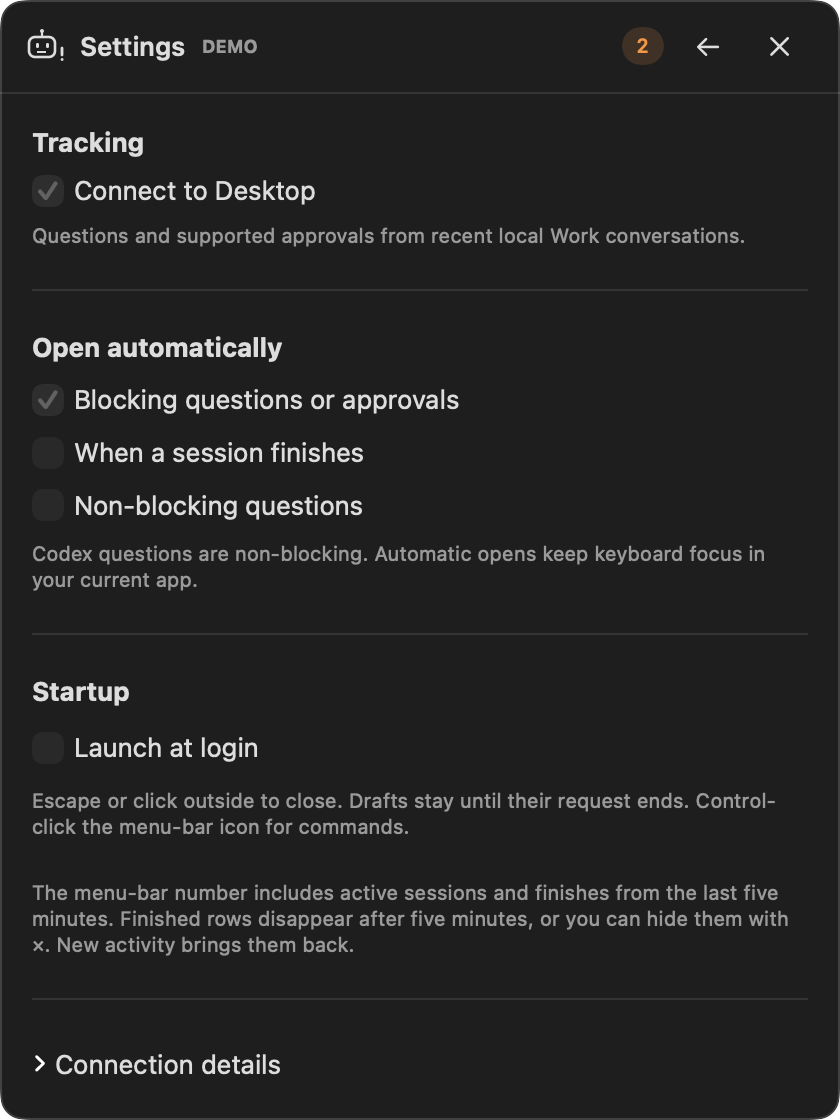
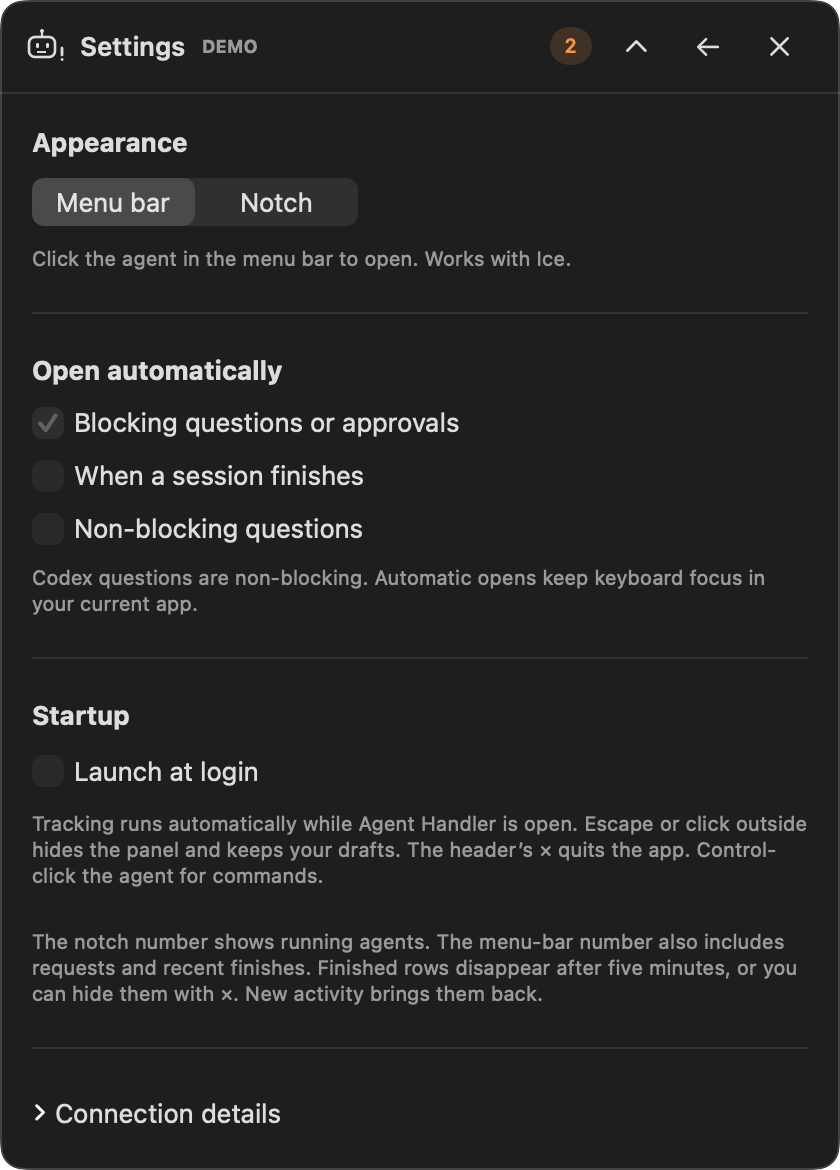
Make tracking automatic and harden notch hover recovery

diff --git a/Sources/AgentHandlerApp/AppModel.swift b/Sources/AgentHandlerApp/AppModel.swift
@@ -48,7 +48,7 @@ import ClaudeDesktopAdapter
     var hiddenSessions: [SessionSummary] { ordering.sorted(lifecycle.hidden(observedSessions, now: sessionClock)) }
     var sessions: [SessionSummary] { ordering.sorted(lifecycle.visible(observedSessions, now: sessionClock)) }
     var menuBarState: MenuBarState {
-        MenuBarState(sessions: sessions, now: sessionClock, enabled: enabled,
+        MenuBarState(sessions: sessions, now: sessionClock,
                      warning: issue != nil || trackingWarning != nil || needsSourceApproval)
     }
     func updateSessionPresentation(now: Date = Date()) {
@@ -63,7 +63,7 @@ import ClaudeDesktopAdapter
         persistLifecycle()
         attentionChanged?()
         if let target = autoOpenPolicy.update(requests: requests, sessions: observed, newlyFinished: newlyFinished,
-                                              settings: autoOpenSettings, enabled: enabled && !sleeping && !demo) {
+                                              settings: autoOpenSettings, enabled: !sleeping && !demo) {
             autoOpenRequested?(target)
         }
     }
@@ -104,7 +104,6 @@ import ClaudeDesktopAdapter
         }
     }
     var displayedRequest: RequestView? { requests.first { $0.id == selectedRequestID } ?? SessionSummary.preferredRequest(requests) }
-    @Published var enabled: Bool { didSet { UserDefaults.standard.set(enabled, forKey: "desktopEnabled"); Task { await reconfigure() } } }
     @Published var extraThreads: String { didSet { UserDefaults.standard.set(extraThreads, forKey: "extraThreads"); lastDiscovery = 0 } }
     @Published var loginEnabled = SMAppService.mainApp.status == .enabled
     @Published var autoOpenSettings = AutoOpenSettings() {
@@ -149,7 +148,6 @@ import ClaudeDesktopAdapter
         }
         core = RequestController(ledger: ledger)
         adapter = DesktopAdapter(directory: directory, controller: core)
-        enabled = UserDefaults.standard.object(forKey: "desktopEnabled") as? Bool ?? true
         extraThreads = UserDefaults.standard.string(forKey: "extraThreads") ?? ""
         if !demo { autoOpenSettings = AutoOpenSettings.load(from: .standard) }
     }
@@ -166,7 +164,7 @@ import ClaudeDesktopAdapter
         presentationTimer = Task { [weak self] in
             while !Task.isCancelled {
                 if let self {
-                    if !demo, enabled, !sleeping { activities = await adapter.activity() }
+                    if !demo, !sleeping { activities = await adapter.activity() }
                     updateSessionPresentation()
                 }
                 try? await Task.sleep(for: .seconds(1))
@@ -195,7 +193,7 @@ import ClaudeDesktopAdapter
         observingClaude = Task { [weak self] in
             while !Task.isCancelled {
                 guard let self else { return }
-                if enabled, !sleeping {
+                if !sleeping {
                     let app = NSRunningApplication.runningApplications(withBundleIdentifier: "com.anthropic.claudefordesktop").first
                     let source = app.map { "\($0.processIdentifier):\($0.launchDate?.timeIntervalSince1970 ?? 0)" }
                     await claude.poll(sourceInstance: source)
@@ -220,18 +218,8 @@ import ClaudeDesktopAdapter
         })
     }
 
-    private func reconfigure() async {
-        guard !demo else { return }
-        refreshingUsage?.cancel(); refreshingUsage = nil; codexUsage = nil
-        if enabled, !sleeping { startUsageRefresh() }
-        await adapter.stop(); await claude.stop()
-        activities = await adapter.activity(); claudeActivities = await claude.activity(); lastDiscovery = 0
-        connectedConversations = 0; connectionChecked = false
-        needsSourceApproval = false
-        await refreshDiscovery()
-    }
     private func startUsageRefresh() {
-        guard !demo, enabled, !sleeping, refreshingUsage == nil else { return }
+        guard !demo, !sleeping, refreshingUsage == nil else { return }
         refreshingUsage = Task { [weak self] in
             while !Task.isCancelled {
                 guard let self else { return }
@@ -240,7 +228,7 @@ import ClaudeDesktopAdapter
                 let reading: CodexUsageSnapshot?
                 if let executable { reading = try? await CodexUsageReader.read(executable: executable, directory: directory) }
                 else { reading = nil }
-                guard !Task.isCancelled, enabled, !sleeping else { return }
+                guard !Task.isCancelled, !sleeping else { return }
                 codexUsage = reading
                 try? await Task.sleep(for: .seconds(60))
             }
@@ -248,7 +236,6 @@ import ClaudeDesktopAdapter
     }
     private func refreshDiscovery() async {
         guard !demo, !sleeping, !refreshingDiscovery else { return }
-        guard enabled else { health = "Desktop connection disabled"; return }
         refreshingDiscovery = true; defer { refreshingDiscovery = false }
         let signature = ["state_5.sqlite", "state_5.sqlite-wal"].map { name in
             let attrs = try? FileManager.default.attributesOfItem(atPath: directory.appendingPathComponent(name).path)
@@ -258,7 +245,7 @@ import ClaudeDesktopAdapter
         if catalog.retryNeeded || signature != metadataSignature || now - lastDiscovery >= 60 || lastDiscovery == 0 {
             let directory = directory
             let result = await Task.detached(priority: .utility) { Result { try ThreadDiscovery.candidates(directory: directory) } }.value
-            guard enabled, !sleeping else { return }
+            guard !sleeping else { return }
             let previousDiagnostic = catalog.diagnostic
             catalog.update(result)
             if let diagnostic = catalog.diagnostic, diagnostic != previousDiagnostic {
@@ -276,7 +263,7 @@ import ClaudeDesktopAdapter
             // A parser/connection failure must not evict an active session.
             // Explicit no-owner results may release ordinary stale priority.
             let pending = (await core.snapshot()).filter(\.needsAttention).map { $0.id.scope.conversation }
-            guard enabled, !sleeping else { return }
+            guard !sleeping else { return }
             let explicit = extraThreads.split(whereSeparator: \.isWhitespace).map(String.init).filter { $0.utf8.count <= 256 }
             let candidateIDs = candidates.map(\.id)
             let baseline = Set(pending + explicit + candidateIDs).union(observedCodexConversations)

diff --git a/Sources/AgentHandlerApp/MenuBarPanel.swift b/Sources/AgentHandlerApp/MenuBarPanel.swift
@@ -36,6 +36,7 @@ final class AttentionPanel: NSPanel {
     private var opening: Opening?
     private var hoverPolicy = NotchHoverPolicy()
     private var hoverTask: Task<Void, Never>?
+    private var lastPointerInside: Bool?
     private var geometry: NotchGeometry?
     private let geometryProvider: (() -> NotchGeometry?)?
     private let pointerLocation: () -> CGPoint
@@ -53,6 +54,7 @@ final class AttentionPanel: NSPanel {
         panel.isOpaque = false; panel.backgroundColor = .clear; panel.hasShadow = true
         panel.level = .statusBar; panel.collectionBehavior = [.canJoinAllSpaces, .fullScreenAuxiliary, .stationary, .ignoresCycle]
         panel.hidesOnDeactivate = false; panel.isReleasedWhenClosed = false
+        panel.acceptsMouseMovedEvents = true
         panel.title = "Agent Handler"
         NotificationCenter.default.addObserver(self, selector: #selector(menuBegan), name: NSMenu.didBeginTrackingNotification, object: nil)
         NotificationCenter.default.addObserver(self, selector: #selector(menuEnded), name: NSMenu.didEndTrackingNotification, object: nil)
@@ -72,14 +74,18 @@ final class AttentionPanel: NSPanel {
         // otherwise make a scrollable error state expand the window itself.
         host.sizingOptions = []
         panel.contentView = host
-        if let monitor = NSEvent.addGlobalMonitorForEvents(matching: [.leftMouseDown, .rightMouseDown], handler: { [weak self] event in
+        // Recover an absent view-entry event using pointer geometry. Both
+        // event scopes are needed for movement in our window and other apps.
+        if let monitor = NSEvent.addGlobalMonitorForEvents(matching: [.leftMouseDown, .rightMouseDown, .mouseMoved], handler: { [weak self] event in
             MainActor.assumeIsolated {
+                if event.type == .mouseMoved { self?.pointerMoved(); return }
                 guard let self, event.windowNumber != self.panel.windowNumber else { return }
                 self.dismissIfOutside(event)
             }
         }) { eventMonitors.append(monitor) }
-        if let monitor = NSEvent.addLocalMonitorForEvents(matching: [.leftMouseDown, .rightMouseDown], handler: { [weak self] event in
+        if let monitor = NSEvent.addLocalMonitorForEvents(matching: [.leftMouseDown, .rightMouseDown, .mouseMoved], handler: { [weak self] event in
             MainActor.assumeIsolated {
+                if event.type == .mouseMoved { self?.pointerMoved(); return }
                 guard let self, event.window !== self.panel, event.window !== self.anchor?.window else { return }
                 self.dismissIfOutside(event)
             }
@@ -93,6 +99,8 @@ final class AttentionPanel: NSPanel {
     private func collapse(automatically: Bool = false) {
         awaitingNotchLayout = false
         hoverTask?.cancel(); hoverTask = nil; hoverPolicy = NotchHoverPolicy(); opening = nil
+        // The hit region changes from the expanded body to the compact strip.
+        lastPointerInside = nil
         // Only a pointer remaining over the compact trigger must leave before
         // reopening. A normal hover-exit must allow the very next re-entry.
         if geometry?.collapsedFrame.contains(pointerLocation()) == true { hoverPolicy.dismissed() }
@@ -245,6 +253,7 @@ final class AttentionPanel: NSPanel {
         }
         guard style != presentation.style else { return }
         hoverTask?.cancel(); hoverTask = nil; hoverPolicy = NotchHoverPolicy()
+        lastPointerInside = nil
         awaitingNotchLayout = false
         if style == .notch, presentation.expanded { prepareNotchLayout() }
         presentation.style = style
@@ -253,17 +262,28 @@ final class AttentionPanel: NSPanel {
         if style == .notch || presentation.expanded { panel.orderFrontRegardless() }
         else { panel.resignKey(); panel.orderOut(nil) }
     }
+    private var pointerIsInside: Bool {
+        // During the shrink the native frame is still larger than the trigger.
+        // That vanishing body must not start a fresh dwell and reopen itself.
+        let trigger = presentation.expanded ? panel.frame : geometry?.collapsedFrame ?? panel.frame
+        return trigger.contains(pointerLocation())
+    }
+    private func pointerMoved() {
+        guard presentation.style == .notch, panel.isVisible, pointerIsInside != lastPointerInside else { return }
+        // High-rate movement within the same region does not reschedule dwell
+        // tasks. The deadline rechecks the current position even after a stop.
+        pointerChanged()
+    }
     /// Shared native-event path; fixture tests provide only their own pointer
     /// position and geometry, without moving the user's cursor.
     func pointerChanged() {
         hoverTask?.cancel(); hoverTask = nil
         guard presentation.style == .notch, panel.isVisible else { return }
+        let inside = pointerIsInside
+        lastPointerInside = inside
         let mayCollapse = opening == .hover && !panel.isKeyWindow && !model.showSettings && !menuTracking
         let now = ProcessInfo.processInfo.systemUptime
-        // During the shrink the native frame is still larger than the trigger.
-        // That vanishing body must not start a fresh dwell and reopen itself.
-        let trigger = presentation.expanded ? panel.frame : geometry?.collapsedFrame ?? panel.frame
-        switch hoverPolicy.update(inside: trigger.contains(pointerLocation()), expanded: presentation.expanded,
+        switch hoverPolicy.update(inside: inside, expanded: presentation.expanded,
                                   mayCollapse: mayCollapse, now: now) {
         case .expand:
             opening = .hover; autoClose.openedManually(); present(takingFocus: false)

diff --git a/Sources/AgentHandlerApp/RequestView.swift b/Sources/AgentHandlerApp/RequestView.swift
@@ -33,7 +33,7 @@ struct HandlerPanelView: View {
                             PanelIconButton(title: "Dismiss message", symbol: "xmark") { model.issue = nil }
                         }.padding(12).background(.orange.opacity(0.10)).panelMeasuredHeight(.issue)
                 }
-                if let warning = model.trackingWarning, model.enabled {
+                if let warning = model.trackingWarning {
                     Label(warning, systemImage: "exclamationmark.triangle")
                         .font(.callout).foregroundStyle(.orange).fixedSize(horizontal: false, vertical: true).padding(12).frame(maxWidth: .infinity, alignment: .leading).panelMeasuredHeight(.warning)
                 }
@@ -141,12 +141,13 @@ struct HandlerPanelView: View {
                         .padding(.horizontal, 7).padding(.vertical, 3).background(.orange.opacity(0.16), in: Capsule())
                         .foregroundStyle(.orange).help("Requests needing attention; the menu-bar number also includes working and recently finished sessions.").accessibilityLabel("\(model.requests.count) \(model.requests.count == 1 ? "request needs" : "requests need") attention")
                 }
+                PanelIconButton(title: presentation.style == .notch ? "Collapse notch (Escape)" : "Close panel (Escape)",
+                    symbol: "chevron.up", action: collapse)
+                    .keyboardShortcut(.cancelAction)
                 PanelIconButton(title: model.showSettings ? (model.showSessions ? "Back to sessions" : "Back to question") : "Settings", symbol: model.showSettings ? "arrow.left" : "gearshape") {
                     model.showSettings.toggle()
                 }.keyboardShortcut(",", modifiers: .command)
-                PanelIconButton(title: presentation.style == .notch ? "Collapse notch (Escape)" : "Close panel (Escape)",
-                    symbol: presentation.style == .notch ? "chevron.up" : "xmark", action: collapse)
-                    .keyboardShortcut(.cancelAction)
+                PanelIconButton(title: "Quit Agent Handler", symbol: "xmark") { NSApp.terminate(nil) }
             }
         }.padding(.horizontal, expanded ? 16 : 12)
             .frame(height: presentation.style == .notch ? 40 : expanded ? 46 : 30)
@@ -191,10 +192,10 @@ struct HandlerPanelView: View {
 
     private var emptyState: some View {
         VStack(spacing: 10) {
-            Image(systemName: !model.enabled ? "pause.circle" : model.connectedConversations == 0 && !model.demo ? "desktopcomputer" : "tray")
+            Image(systemName: model.connectedConversations == 0 && !model.demo ? "desktopcomputer" : "tray")
                 .font(.system(size: 25, weight: .light)).foregroundStyle(.secondary).accessibilityHidden(true)
-            Text(!model.enabled ? "Tracking is paused" : model.needsSourceApproval ? "Check Codex for approvals" : model.connectedConversations == 0 && !model.demo ? "Waiting for Codex" : "No sessions to show").font(.headline)
-            Text(!model.enabled ? "Turn on Connect to Desktop in Settings to resume." : model.connectedConversations == 0 && !model.demo ? "Keep Codex open. Sessions appear automatically once connected." : "New activity will appear automatically.")
+            Text(model.needsSourceApproval ? "Check Codex for approvals" : model.connectedConversations == 0 && !model.demo ? "Waiting for Codex" : "No sessions to show").font(.headline)
+            Text(model.connectedConversations == 0 && !model.demo ? "Keep Codex open. Sessions appear automatically once connected." : "New activity will appear automatically.")
                 .font(.callout).foregroundStyle(.secondary).multilineTextAlignment(.center)
         }.padding(20).frame(maxWidth: .infinity).fixedSize(horizontal: false, vertical: true)
     }

diff --git a/Tests/Visuals/RenderUI.swift b/Tests/Visuals/RenderUI.swift
@@ -179,6 +179,26 @@ import SwiftUI
             }
         }
         try check(panel.effectiveStyle == .notch && !panel.isExpanded && window.frame == geometry.collapsedFrame, "initial collapsed placement")
+        // Dispatch only within this fixture process. A missed view-entry event
+        // must not prevent geometric hover, including over the camera region.
+        func move(to point: CGPoint) throws {
+            pointer = point
+            guard let event = NSEvent.mouseEvent(with: .mouseMoved, location: .zero, modifierFlags: [],
+                timestamp: ProcessInfo.processInfo.systemUptime, windowNumber: window.windowNumber,
+                context: nil, eventNumber: 0, clickCount: 0, pressure: 0) else { throw Failure.render }
+            NSApp.sendEvent(event)
+        }
+        for x in [geometry.collapsedFrame.minX + 1, geometry.notch.midX, geometry.collapsedFrame.maxX - 1] {
+            // Repeated movement must not keep restarting the opening dwell.
+            for offset in 0..<8 {
+                try move(to: CGPoint(x: x, y: geometry.collapsedFrame.maxY - 1 - CGFloat(offset % 2)))
+                try await Task.sleep(for: .milliseconds(35))
+            }
+            try check(panel.isExpanded && !window.isKeyWindow, "mouse movement recovers missed entry at x=\(x)")
+            try move(to: CGPoint(x: screen.minX + 10, y: screen.minY + 10))
+            try await Task.sleep(for: .milliseconds(600))
+            try check(!panel.isExpanded, "mouse movement exit folds")
+        }
         pointer = CGPoint(x: geometry.collapsedFrame.minX + 24, y: geometry.collapsedFrame.midY)
         panel.pointerChanged()
         try await Task.sleep(for: .milliseconds(450))
@@ -196,6 +216,13 @@ import SwiftUI
         pointer = CGPoint(x: screen.minX + 10, y: screen.minY + 10); panel.pointerChanged()
         try await Task.sleep(for: .milliseconds(450))
         try check(panel.isExpanded, "explicit pin survives leave")
+        pointer = CGPoint(x: geometry.notch.midX, y: geometry.collapsedFrame.minY - 20)
+        panel.pointerChanged() // Cache inside the expanded body, outside the compact trigger.
+        window.performClose(nil)
+        try move(to: CGPoint(x: geometry.collapsedFrame.minX + 24, y: geometry.collapsedFrame.midY))
+        try await Task.sleep(for: .milliseconds(450))
+        try check(panel.isExpanded, "first compact movement after body collapse starts dwell")
+        panel.show()
         pointer = CGPoint(x: geometry.notch.midX, y: geometry.collapsedFrame.minY - 2)
         window.performClose(nil); panel.pointerChanged()
         try await Task.sleep(for: .milliseconds(450))
@@ -231,7 +258,7 @@ import SwiftUI
         try check(panel.effectiveStyle == .notch && panel.isExpanded && model.showSettings, "display recovery")
         model.companionStyle = .menuBar; panel.refresh()
         try check(panel.effectiveStyle == .menuBar && panel.isExpanded, "menu-bar return")
-        print("notch lifecycle: dwell opens without focus; leave folds and re-entry opens; explicit collapse suppresses reopen; uncertain/automatic waits stay; resolution folds; Settings and display fallback preserve route")
+        print("notch lifecycle: mouse-movement dispatch recovers missed entry at left/camera/right without focus or dwell starvation; leave folds and re-entry opens; explicit collapse suppresses reopen; uncertain/automatic waits stay; resolution folds; Settings and display fallback preserve route")
     }
     /// Observe the real scroll viewport during expansion, not just its settled
     /// size. A short list must fit throughout the reveal, without a scroller.

diff --git a/Sources/AgentHandlerApp/HandlerSettingsView.swift b/Sources/AgentHandlerApp/HandlerSettingsView.swift
@@ -19,12 +19,6 @@ struct HandlerSettingsView: View {
                         .font(.caption).foregroundStyle(.secondary).fixedSize(horizontal: false, vertical: true)
                 }
                 Divider()
-                VStack(alignment: .leading, spacing: 8) {
-                    Text("Tracking").font(.headline)
-                    Toggle("Connect to Desktop", isOn: $model.enabled).disabled(model.demo)
-                    Text("Questions and supported approvals from recent local Work conversations.").font(.caption).foregroundStyle(.secondary)
-                }
-                Divider()
                 VStack(alignment: .leading, spacing: 10) {
                     Text("Open automatically").font(.headline)
                     Toggle("Blocking questions or approvals", isOn: $model.autoOpenSettings.blocking).disabled(model.demo)
@@ -38,7 +32,7 @@ struct HandlerSettingsView: View {
                 VStack(alignment: .leading, spacing: 12) {
                     Text("Startup").font(.headline)
                     Toggle("Launch at login", isOn: Binding(get: { model.loginEnabled }, set: { model.setLogin($0) })).disabled(model.demo)
-                    Text("Escape or click outside to close. Drafts stay until their request ends. Control-click the agent for commands.").font(.caption).foregroundStyle(.secondary)
+                    Text("Tracking runs automatically while Agent Handler is open. Escape or click outside hides the panel and keeps your drafts. The header’s × quits the app. Control-click the agent for commands.").font(.caption).foregroundStyle(.secondary)
                 }
                 Text("The notch number shows running agents. The menu-bar number also includes requests and recent finishes. Finished rows disappear after five minutes, or you can hide them with ×. New activity brings them back.").font(.caption).foregroundStyle(.secondary)
                 Divider()

diff --git a/docs/verification.md b/docs/verification.md
@@ -519,3 +519,13 @@ All 35 production-view layouts and existing adaptive/lifetime fixtures passed lo
 The fixed canvas introduced a compact-outline regression: the flexible outer frame grew to the canvas's 520-point minimum width, putting its curved sides outside the native compact window. A new rendered-alpha check failed on `notch-collapsed`. The surface now uses the actual viewport dimensions for its outer frame and mask, while keeping the fixed content canvas and same view identity in both presentations. All six notch variants check opaque sides/center against transparent rounded bottom corners. The 35-layout matrix and existing native expansion, scrolling, reopen, display-recovery and cancellation fixtures passed after the correction. A read-only reviewer found no important issue.
 
 Hover dwell is now 100 ms instead of 140 ms. The modified nine-test notch suite first failed at the earlier opening deadline, then passed with the new timing; brief pass-through and manual-dismissal suppression remain covered. The final signed release bundle was installed, and computer use visibly confirmed the compact notch's restored curved shoulders and lower corners. Physical pointer dwell timing is policy-tested rather than directly measured through computer use.
+
+## 2026-10-23 — Automatic tracking, explicit Quit, and hover recovery
+
+The app no longer reads the old `desktopEnabled` preference or exposes Connect to Desktop. Source tracking starts whenever the live app runs, with the existing sleep/demo guards retained. The header's × now quits Agent Handler; the separate chevron, Escape and outside clicks only hide its panel. Native request authority and in-memory draft ownership are unchanged.
+
+Investigation found no mouse-movement fallback for a missed view-entry event. A new native fixture dispatched mouse-moved events only inside its own process, without calling `pointerChanged()`: it failed to open before the fix. Local and global native movement scopes now feed the existing geometric hover policy, and the window accepts mouse-moved events. A cached inside/outside transition avoids rescheduling tasks on high-rate movement. No idle polling, keyboard monitoring or new accessibility permission is introduced.
+
+The fixture passed at left/camera/right positions with repeated movement, passive focus and exit/re-entry. Independent review then identified a stale cached region after collapsing from the expanded body. The exact first-movement-after-collapse fixture failed before cache invalidation and passed afterward. Existing compact suppression, shrinking-body exclusion, uncertain wait retention, display fallback, rapid reopen, stable viewport and cancellation checks also passed. The reviewer found no remaining important issue after correction. Full local validation passed 244 tests in 32 suites and all 35 production-view layouts/native fixtures.
+
+Computer use observed this live chat's actual title and Running state alongside another source question, inspected Settings without the tracking toggle, and opened Settings with Command-comma. Clicking the header's Quit button removed Agent Handler from the running-app inventory. Earlier attempts interrupted by outside interactions were not counted. Physical cursor dwell and actual OS global-monitor delivery remain unmeasured by computer use; the movement fixture exercises the local dispatch path. No source question was answered for this UI change.

diff --git a/docs/ui-review.md b/docs/ui-review.md
@@ -76,6 +76,10 @@ Command-comma opens Settings. With macOS Keyboard Navigation temporarily enabled
 
 ## Detail polish
 
+Tracking now starts automatically whenever the live app runs. The former Connect to Desktop switch and its persisted pause gate have been removed. The header keeps separate controls: chevron to hide, Settings/Back, and × to quit the application. Escape and outside clicks still hide without quitting or discarding the in-memory answer draft.
+
+Notch hover also observes native mouse movement in both local and global event scopes, as described in [Apple's event-monitor documentation](https://developer.apple.com/library/archive/documentation/Cocoa/Conceptual/EventOverview/MonitoringEvents/MonitoringEvents.html). The panel explicitly accepts mouse-moved events. Movement only updates dwell on a change of inside/outside state; it adds no idle polling. The cache is invalidated when collapse changes the hit region. A missing view-entry event therefore has a geometric recovery path, while compact-frame suppression and passive focus behavior remain intact.
+
 Chat titles take the full row width, with a compact source/status line underneath. Actionable rows have restrained hover/press feedback; focus has a single outline. Event-based ordering remains stable between interventions and finishes. Settings text is shorter, empty state avoids implying that an unknown job succeeded, the Open command always opens, and an already visible panel does not repeat its fade.
 
 Hide has a ten-second Undo available only on the sessions route, so Command-Z cannot capture answer-field editing. The restore menu recovers individual hidden finished rows after that offer expires. Both use exact source/turn identity and preserve the original finish deadline. A real hidden Job tracker row was restored through this menu while the other pre-existing hidden session was left hidden. Native list-row inspection alone does not establish that the × hit target was exercised successfully; the later content-height pass below exercised × and Undo.
